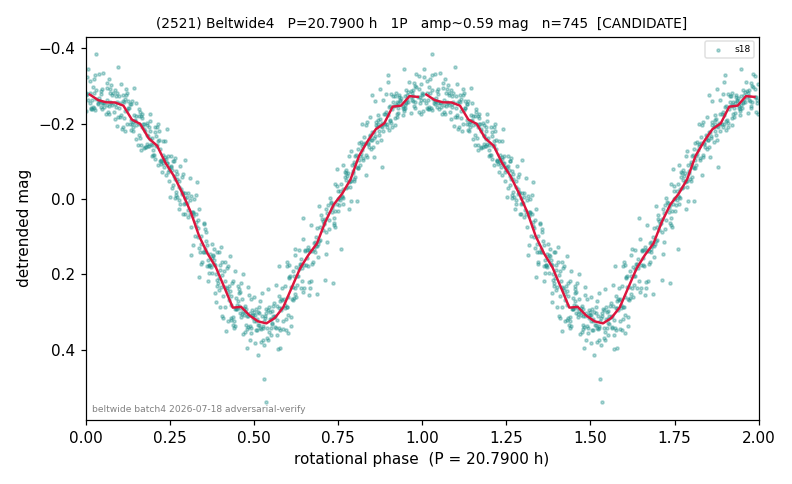
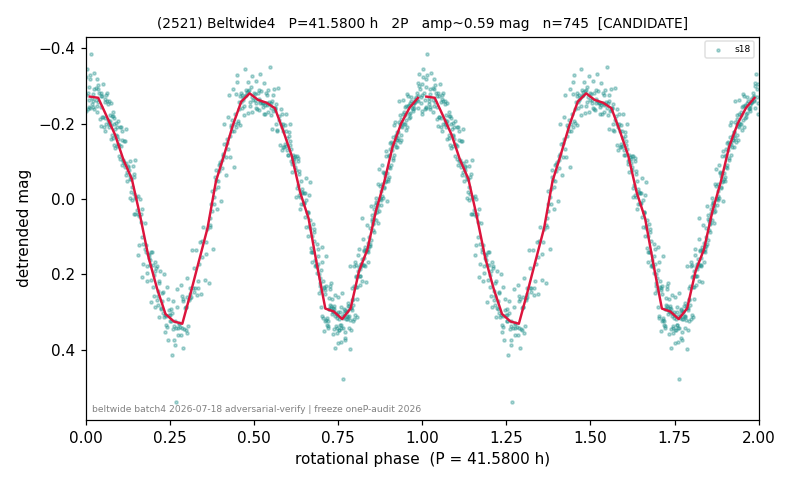
Freeze-day: VALIDATION_PLAN.md (V1-V7); 2521 doubled to 2P/41.58h (oneP audit); catalog CSVs now generated atomically with sheets

diff --git a/methodology/VALIDATION_PLAN.md b/methodology/VALIDATION_PLAN.md
@@ -1,0 +1,54 @@
+# De-comb method: validation and hardening plan (V1-V7)
+
+Status ledger for the systematic validation of the ensemble eigen-systematics removal
+("de-comb", METHODOLOGY.md section 5). Purpose: replace every ad-hoc choice with a
+measured one, and publish the method's completeness, reliability, and validity domain.
+Current published evidence (RNAAS-scope): injection recovery 91-97% of synthetic 90 h
+signals, <=1% power loss on a validated real rotator, real kill/save case studies.
+
+## V1. Data-driven K (holdout cross-validation) -- QUEUED, next compute job after the 2026-07 freeze
+Every cached sector ensemble stores 20 holdout field stars never used in the SVD basis.
+For each sector: sweep K=1..8, project the basis out of each holdout star, and pick K*
+minimizing the holdout residual RMS (penalizing variance absorption). Deliverables:
+- K* per sector across all ~58 cached sectors; median and spread.
+- K* vs galactic latitude / field crowding.
+- Verdict-stability check: re-run the catalog decomb verdicts at K in {3,4,5,6,7};
+  report the fraction of verdicts that flip.
+Outcome: either K=5 becomes a derived constant, or the method becomes adaptive
+(per-sector K*) with a one-line data-driven rule. Cheap: cached data only, no downloads.
+
+## V2. Injection campaign at scale
+Substrates: several hundred NONE-tier real moving-target light curves (real noise, no
+detection). Inject sinusoids on a grid: P in 2-300 h including points ON and BESIDE each
+momentum-dump comb tooth (328.8/n, n=2..15); amplitudes 0.05-1.0 mag; across sectors
+spanning crowding levels. Measure recovery fraction, amplitude bias, and false-kill rate
+vs (P, amplitude, crowding). Deliverable: completeness/reliability maps.
+
+## V3. Null test (false-survive rate)
+Run the verdict machinery on pure comb power in NONE-tier tracks: how often does a known
+artifact SURVIVE? Publishes the method's false-save rate alongside its false-kill rate.
+
+## V4. Threshold calibration
+Using V2+V3 distributions, place the survive (<=15% drop) and kill (>=50% drop, R2>=0.3)
+thresholds on an ROC curve with quantified error rates; recalibrate if warranted.
+
+## V5. Ensemble robustness
+Bootstrap the 200-star ensembles (resampling, reseeding): verdict stability fraction.
+One targeted local-vs-global ensemble comparison in a crowded field (scattered light is
+position-dependent; test whether track-local star selection changes verdicts).
+
+## V6. Validity domain
+From V2: signal-loss curve vs P/baseline. Publish the domain statement (e.g. "reliable
+for P below ~0.3x the sector baseline; beyond it, defer to multi-sector phase-fold
+coherence"), turning the known slow-rotator over-subtraction into a characterized limit.
+
+## V7. Joint-fit upgrade (methodological, optional)
+Replace sequential project-then-measure with simultaneous fitting of the eigen-basis and
+a Fourier series at the trial period, so the basis cannot absorb the signal. Expected to
+largely remove the slow-rotator over-subtraction. If it works, becomes the centerpiece
+of the full methods paper (PASP), with V1-V6 as its validation.
+
+## Publication mapping
+- RNAAS note (now): method + current evidence, scoped claims.
+- PASP paper (after V1-V7): full validation + (decision pending) release of the
+  standalone de-comb module.

diff --git a/objects/2521.md b/objects/2521.md
@@ -1,8 +1,8 @@
 ---
 number: 2521
 family: Beltwide4
-P_rot_h: 20.79
-shape: 1P
+P_rot_h: 41.58
+shape: 2P
 status: CANDIDATE
 quality_U: 1
 updated: 2026-07-18
@@ -10,7 +10,7 @@ updated: 2026-07-18
 
 # (2521)
 
-**Adopted:** 20.79 h, 1P, CANDIDATE
+**Adopted:** 41.58 h, 2P, CANDIDATE
 
 <!-- AUTO:START (regenerated from pipeline outputs; do not hand-edit this block) -->
 ## Evidence (auto)
@@ -23,7 +23,7 @@ Detected in 1 sector(s):
 
 - Refined shape: **2P** (folded amp_fourier 0.618); flags: near-comb(amp-cleared):n=8;gap-alias-risk:81h
 - DIA (de-comb): survived(dPW=+4%,R2=0.16,s18@20.789h,1sec)
-- Gates: FAP<1e-3 and power>=0.10 per detecting sector; single strong sector (candidate ceiling); folded-amplitude rule -> 1P.
+- Gates: FAP<1e-3 and power>=0.10 per detecting sector; single strong sector (candidate ceiling); folded-amplitude rule -> 2P.
 
 ![phase-fold at the adopted period](../plots/2521.png)
 <!-- AUTO:END -->

diff --git a/objects/README.md b/objects/README.md
@@ -25,7 +25,7 @@ One file per catalog object. The AUTO block is a machine-generated evidence shee
 | (2352) Beltwide3 | 41.181 | 2P | CANDIDATE | [2352.md](2352.md) |
 | (2451) Beltwide | 138.364 | 2P | CONFIRMED | [2451.md](2451.md) |
 | (2465) Beltwide8 | 16.4918 | 1P | CANDIDATE | [2465.md](2465.md) |
-| (2521) Beltwide4 | 20.79 | 1P | CANDIDATE | [2521.md](2521.md) |
+| (2521) Beltwide4 | 41.58 | 2P | CANDIDATE | [2521.md](2521.md) |
 | (2538) Beltwide5 | 26.711 | 1P | CONFIRMED | [2538.md](2538.md) |
 | (2553) Beltwide4 | 5.374 | 1P | CONFIRMED | [2553.md](2553.md) |
 | (2601) Beltwide3 | 191.52 | ambiguous | CANDIDATE | [2601.md](2601.md) |